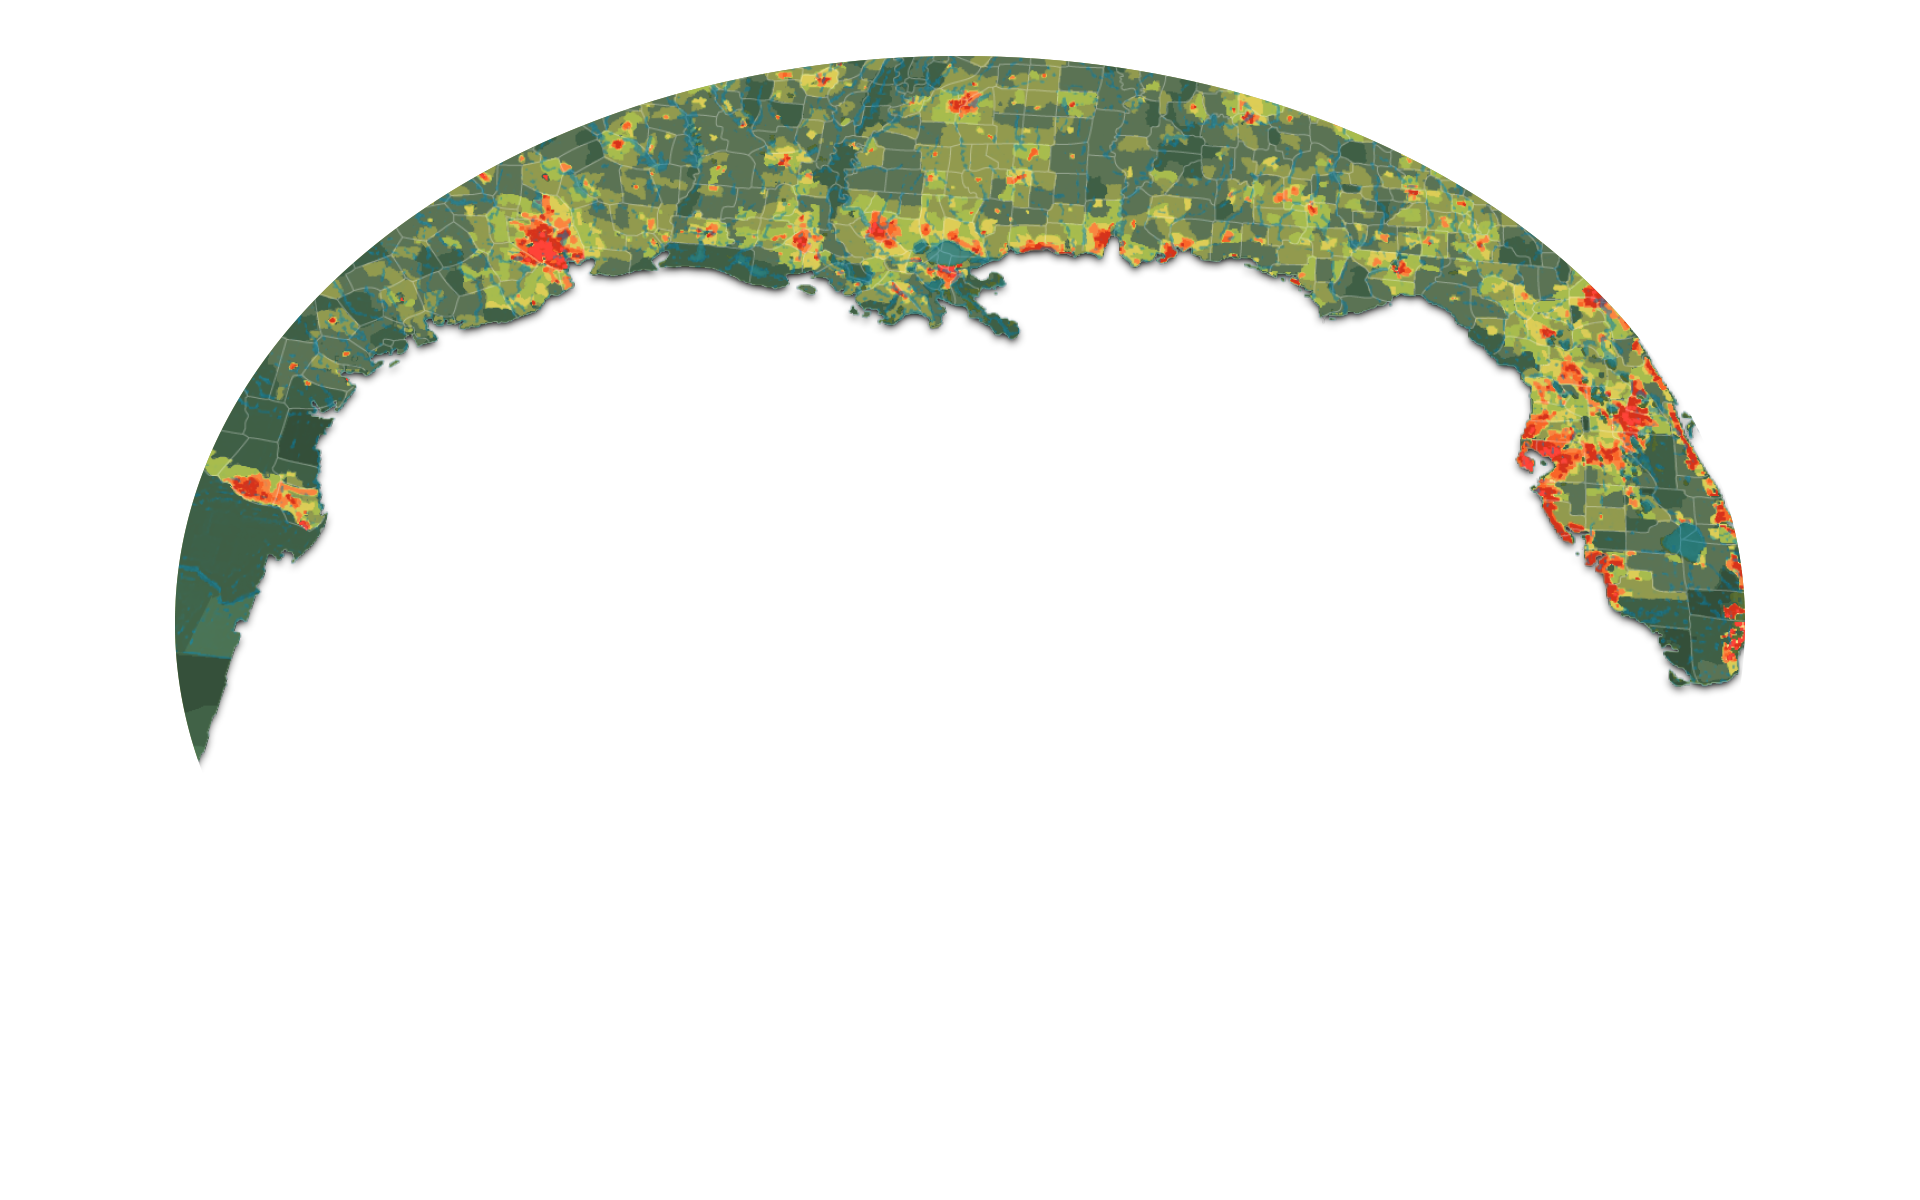
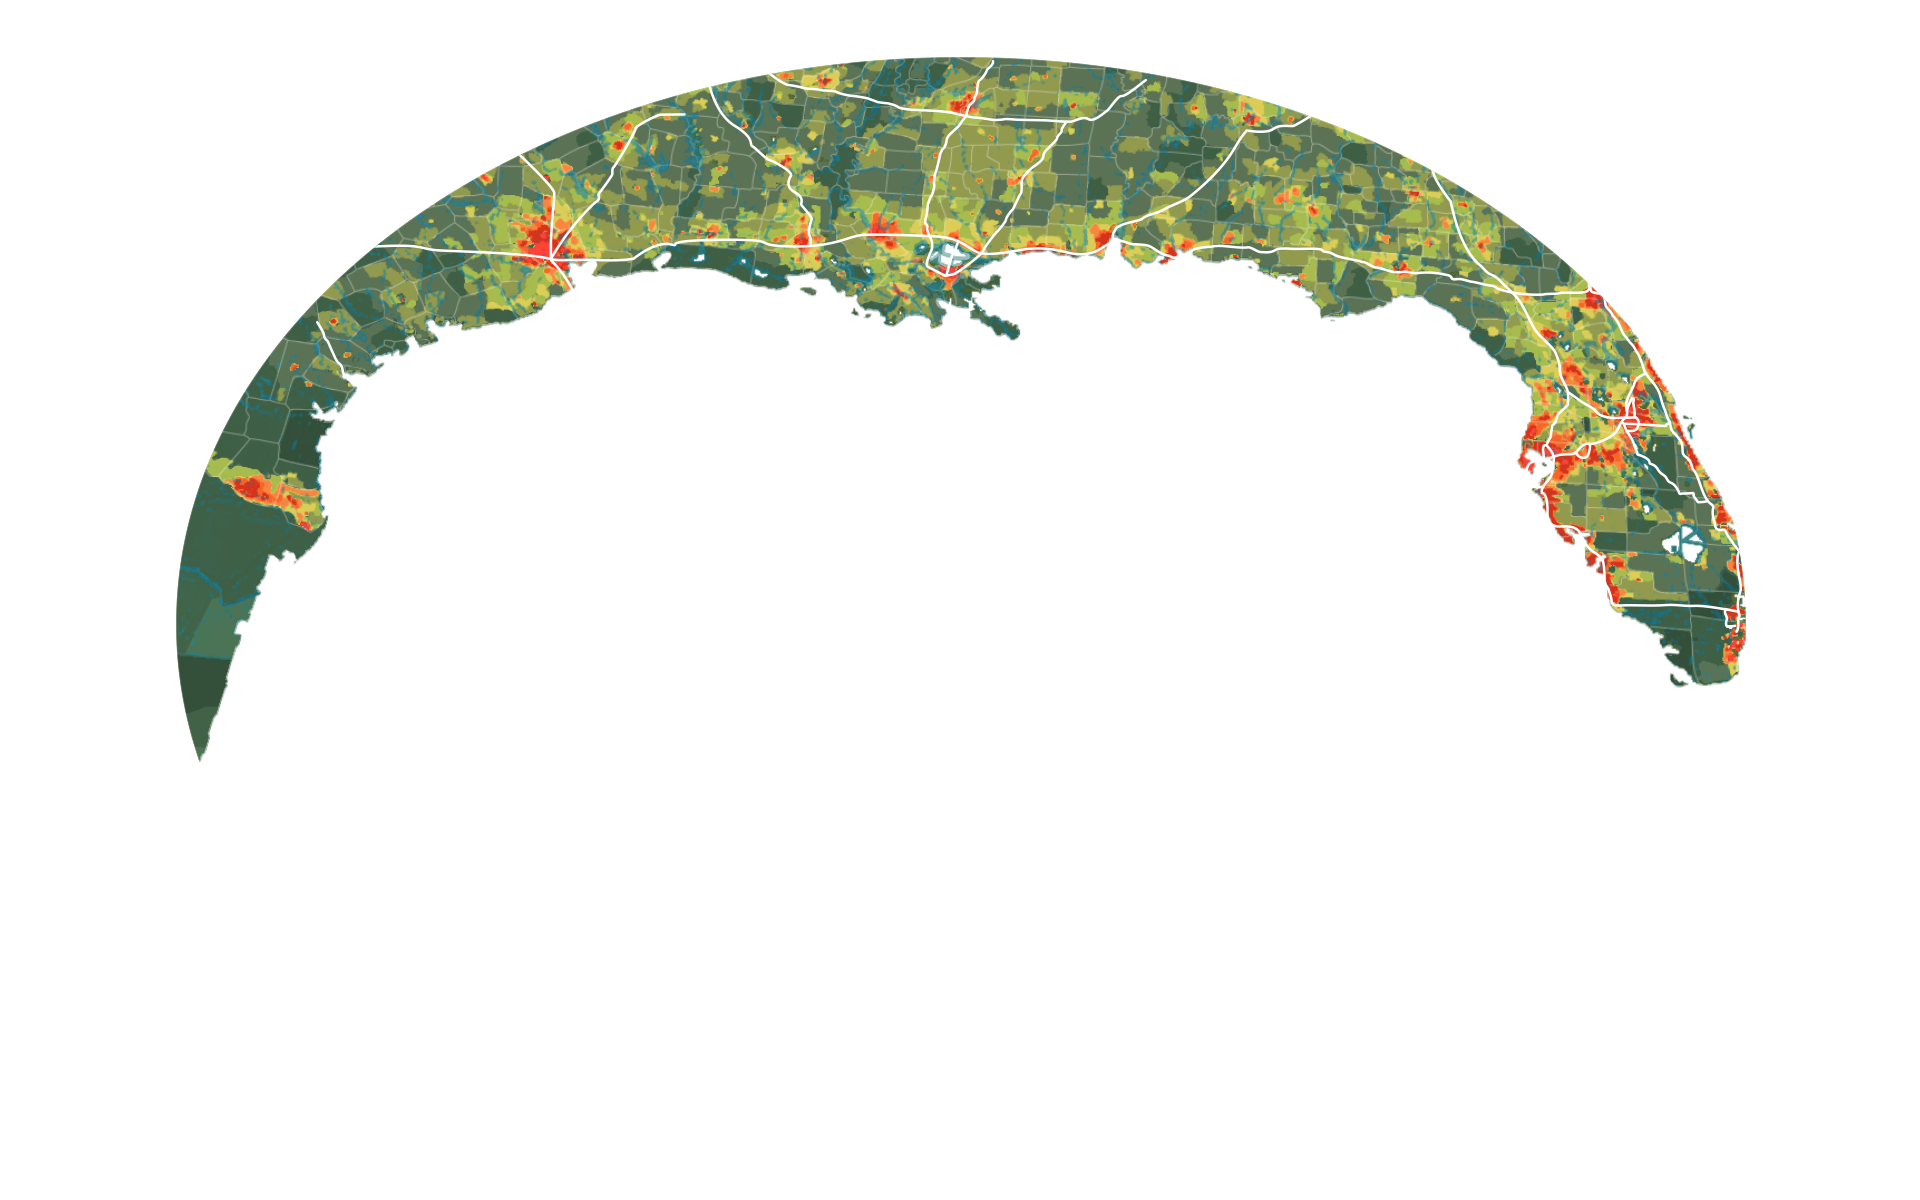
Changing water AND population map now

diff --git a/client/app/game/game.css b/client/app/game/game.css
@@ -213,51 +213,65 @@ div#perspective_plane {
   display: flex;
   align-items: center;
 }
-#mapA,
-#mapB,
-#mapC,
+#currentMap,
+#middleMap,
+#futureMap,
 #foulGulf,
 #landmarks,
 #borderscrim {
   width: 1920px;
   height: 1200px;
   position: absolute;
+  opacity: 1;
+  -webkit-transition: 0.5s all;
 }
 #foulGulf {
-  background: url(../bmp/gulfbrown.jpg) 50% 0 no-repeat;
+  background: url(../bmp/gulfFuture.png) 50% 0 no-repeat;
   background-size: 1920px 1200px;
 }
 .water {
   width: 1920px;
   height: 1200px;
   position: absolute;
-  -webkit-transition: 3s all;
+  -webkit-transition: 0.5s all;
   opacity: 1;
 }
 .water.clear {
-  background: url(../../bmp/gulfclear.jpg) 50% 0 no-repeat;
+  background: url(../../bmp/gulfCurrent.png) 50% 0 no-repeat;
   background-size: 1980px 1300px;
 }
 .water.normal {
-  background: url(../../bmp/gulfbrowner_mockup.png) 50% 0 no-repeat;
+  background: url(../../bmp/gulfMid.png) 50% 0 no-repeat;
   background-size: 1980px 1300px;
 }
 .water.brown {
-  background: url(../../bmp/gulfbrown.jpg) 50% 0 no-repeat;
+  background: url(../../bmp/gulfFuture.png) 50% 0 no-repeat;
   background-size: 1980px 1300px;
 }
 .water.transparent {
   opacity: 0;
+  -webkit-transition: 3s all;
 }
-#mapA {
-  background: url(../../bmp/currentpop.png) 50% 0% no-repeat;
+#currentMap {
+  background: url(../../bmp/currentPop.png) no-repeat;
 }
-#mapB {
-  background: url(../../bmp/midpop.png) 50% 0% no-repeat;
-  background-size: 1680px 1200px;
+#currentMap.transparent {
+  -webkit-transition: 2s all;
+  opacity: 0;
 }
-#mapC {
-  background: url(../../bmp/overpop.png) 50% 0% no-repeat;
+#middleMap {
+  background: url(../../bmp/midPop.png) no-repeat;
+  -webkit-transition: 2s all;
+}
+#middleMap.transparent {
+  opacity: 0;
+}
+#futureMap {
+  background: url(../../bmp/futurePop.png) no-repeat;
+  -webkit-transition: 2s all;
+}
+#futureMap.transparent {
+  opacity: 0;
 }
 div#borderscrim {
   background-image: url('../../bmp/borderandscrim_wrn_1200_tweak.png');

diff --git a/client/app/game/game.less b/client/app/game/game.less
@@ -263,42 +263,64 @@ div#perspective_plane {
   #flex.vertical-center;
 }
 
-#mapA, #mapB, #mapC, #foulGulf, #landmarks, #borderscrim {
+#currentMap, #middleMap, #futureMap, #foulGulf, #landmarks, #borderscrim {
   width: 1920px;
   height: 1200px;
   position: absolute;
+  opacity:1;
+  -webkit-transition: 0.5s all;
 
 }
 #foulGulf {
-  background: url(../bmp/gulfbrown.jpg) 50% 0  no-repeat;
+  background: url(../bmp/gulfFuture.png) 50% 0  no-repeat;
   background-size: 1920px 1200px;
 }
 .water {
   width: 1920px;
   height: 1200px;
   position: absolute;
-  -webkit-transition: 3s all;
+  -webkit-transition: 0.5s all;
   opacity:1;
   &.clear {
-    background: url(../../bmp/gulfclear.jpg) 50% 0  no-repeat;
+    background: url(../../bmp/gulfCurrent.png) 50% 0  no-repeat;
     background-size: 1980px 1300px;
   }
   &.normal {
-    background: url(../../bmp/gulfbrowner_mockup.png) 50% 0  no-repeat;
+    background: url(../../bmp/gulfMid.png) 50% 0  no-repeat;
     background-size: 1980px 1300px;
   }
   &.brown {
-    background: url(../../bmp/gulfbrown.jpg) 50% 0  no-repeat;
+    background: url(../../bmp/gulfFuture.png) 50% 0  no-repeat;
     background-size: 1980px 1300px;
   }
   &.transparent {
     opacity:0;
+    -webkit-transition: 3s all;
   }
 }
-#mapA { background: url(../../bmp/currentpop.png) 50% 0%  no-repeat; }
-#mapB { 	background: url(../../bmp/midpop.png) 50% 0%  no-repeat;
-  background-size:1680px 1200px; }
-#mapC { 	background: url(../../bmp/overpop.png) 50% 0%  no-repeat; }
+#currentMap {
+  background: url(../../bmp/currentPop.png)  no-repeat;
+  &.transparent {
+    -webkit-transition: 2s all;
+    opacity:0;
+  }
+}
+
+#middleMap {
+  background: url(../../bmp/midPop.png)   no-repeat;
+  -webkit-transition: 2s all;
+  &.transparent {
+    opacity:0;
+  }
+}
+
+#futureMap {
+  background: url(../../bmp/futurePop.png)  no-repeat;
+  -webkit-transition: 2s all;
+  &.transparent {
+    opacity:0;
+  }
+}
 
 
 div#borderscrim {

diff --git a/client/app/game/background.html b/client/app/game/background.html
@@ -4,15 +4,18 @@
 
 
 
-  <!--div id="mapA" >AAA</div-->
 
   <div class="water brown" ng-class="{ 'transparent' : game.gulfState != 2 }"></div>
   <div class="water normal" ng-class="{ 'transparent' : game.gulfState != 1 }"></div>
   <div class="water clear" ng-class="{ 'transparent' : game.gulfState != 0 }"></div>
 
-  <div id="mapB" >BBB</div>
+
+
+  <div id="futureMap"  ng-class="{ 'transparent' : game.gulfState != 2 }"></div>
+  <div id="middleMap"  ng-class="{ 'transparent' : game.gulfState != 1 }"></div>
+  <div id="currentMap"  ng-class="{ 'transparent' : game.gulfState != 0 }" ></div>
+
   <div id="landmarks">
-    <!--img  id="highways" src="svg/highways.svg"  /-->
     <div id="corpuschristi" class="city" style="left:16.25%; top:34.75%;">Corpus Christi</div>
     <div id="houston" class="city" style="left:29.5%; top:22.5%;">Houston</div>
     <div id="neworleans" class="city" style="left:49.5%; top:23%;">New Orleans</div>
